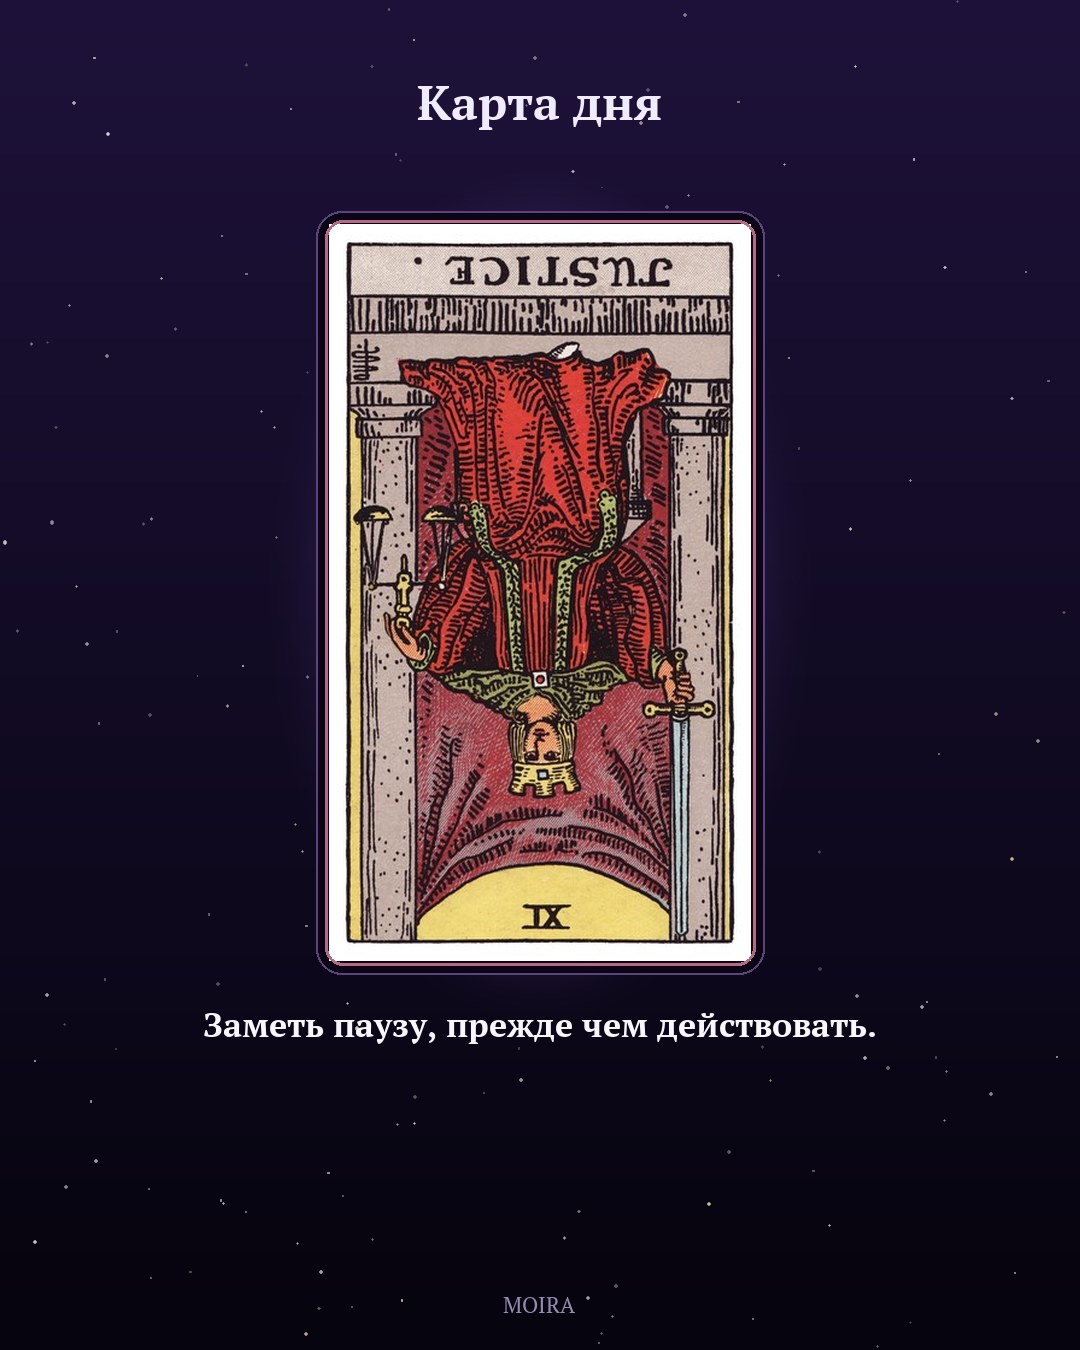
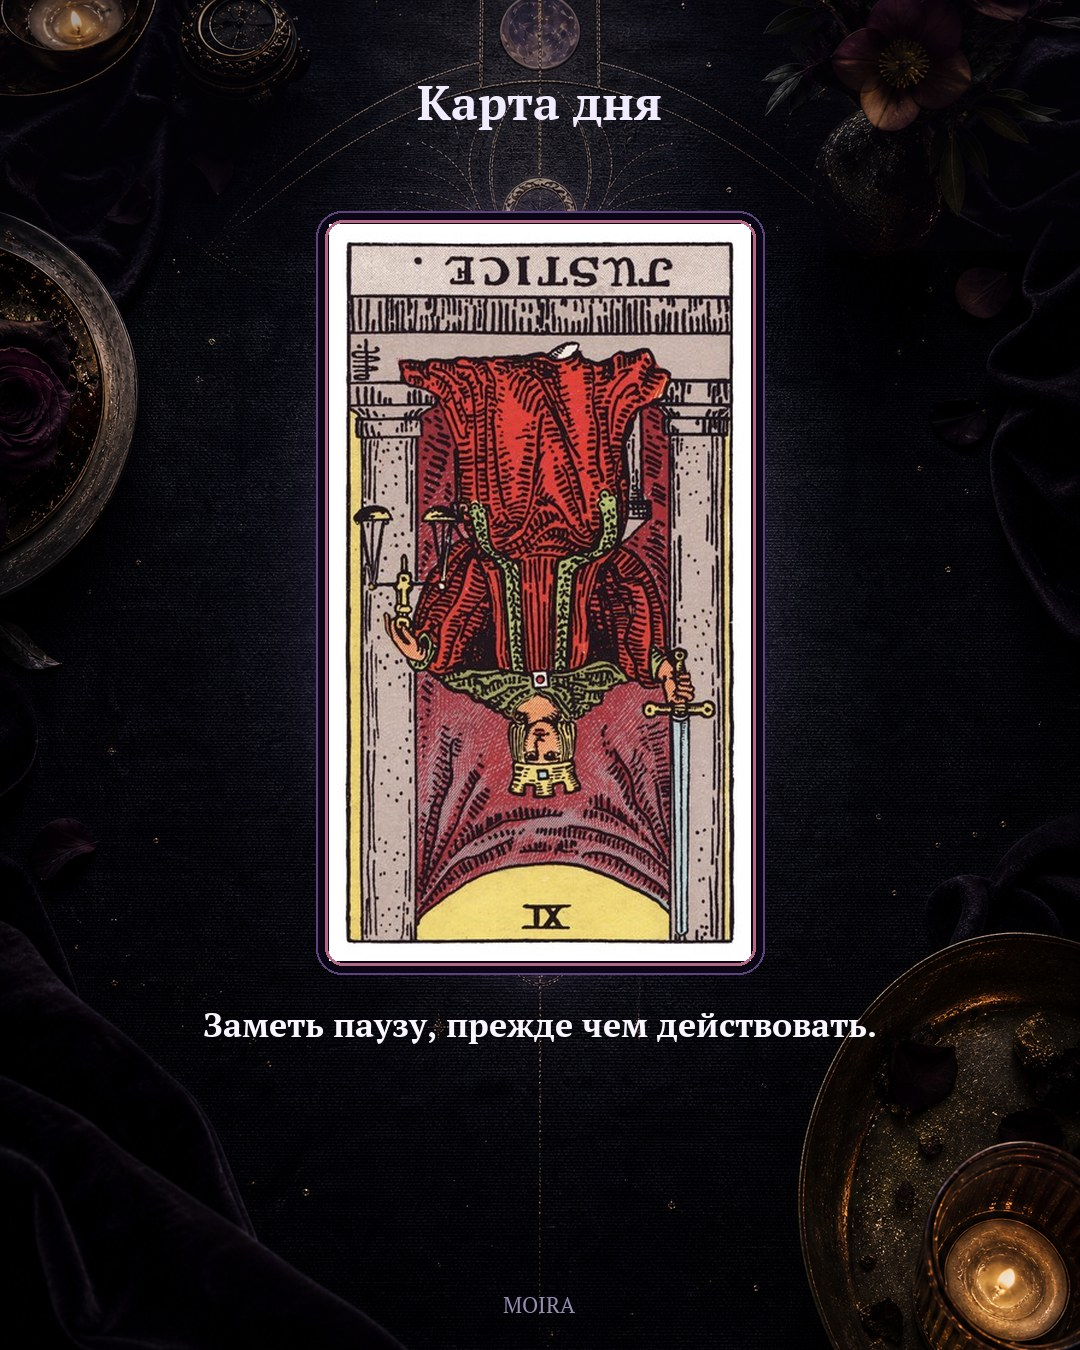
fix(release): make deploy/ops scripts runnable and reproducible
Four defects blocked a clean, reproducible release source.

1. deploy/*.sh were checked out with CRLF despite .gitattributes
   enforcing eol=lf, because core.autocrlf=true left a stale
   worktree. CRLF shell scripts fail on Linux, which breaks both
   the CI `bash -n` gate and the VPS deploy kit. Re-checked-out
   with LF; `bash -n` now passes on both scripts.

2. scripts/visual_smoke.py rendered at import time. Any import
   (import scan, test collection) rewrote four tracked JPEGs and
   broke the fail-closed `git status --porcelain` CI gate. Moved
   rendering behind a __main__ guard; the script is now idempotent.

3. Three scripts imported `bot.*` without adding the repo root to
   sys.path, so `python scripts/<name>.py` died with
   ModuleNotFoundError. Added the project's existing
   sys.path.insert convention to visual_smoke.py,
   openrouter_config_smoke.py and openrouter_json_mode_smoke.py.

4. .env.example omitted three variables the application reads:
   LLM_BACKUP_MODEL (provider fallback), ENVIRONMENT and RELEASE_TAG
   (Sentry release binding required by the deployment source
   policy, which mandates SHA-bound releases).

Also:
- Fixed a typo in the EN smoke sample ("reved" -> "reversed") that
  rendered the Shadow card upright instead of reversed.
- Regenerated docs/visual_smoke_outputs: the committed samples
  predate the nocturnal renderer asset pack (6c0402d), so the
  documented visuals no longer matched the shipped renderer.
[…]

diff --git a/scripts/visual_smoke.py b/scripts/visual_smoke.py
@@ -1,26 +1,82 @@
+"""Render representative Moira visuals into docs/visual_smoke_outputs.
+
+Run explicitly with ``python scripts/visual_smoke.py``. Rendering is intentionally
+guarded by ``__main__`` so that importing this module (for example during a
+package import scan or test collection) never rewrites the tracked sample
+artifacts and never dirties the release tree.
+"""
+
+from __future__ import annotations
+
+import sys
 from pathlib import Path
+
+sys.path.insert(0, str(Path(__file__).resolve().parents[1]))
 
 from bot.tarot.deck import build_deck
 from bot.visual.render import make_share_image, make_single_image, make_spread_image
 
-root = Path(__file__).resolve().parents[1]
-out = root / "docs" / "visual_smoke_outputs"
-out.mkdir(exist_ok=True)
-cards = build_deck()
-by_id = {card.id: card for card in cards}
-chosen = [by_id["major_0"], by_id["major_11"], by_id["major_21"]]
-info_ru = [
-    {"label": "Суть", "card": chosen[0], "reversed": False, "name": chosen[0].name_ru},
-    {"label": "Тень", "card": chosen[1], "reversed": True, "name": chosen[1].name_ru},
-    {"label": "Шаг", "card": chosen[2], "reversed": False, "name": chosen[2].name_ru},
-]
-info_en = [
-    {"label": "Essence", "card": chosen[0], "reversed": False, "name": chosen[0].name_en},
-    {"label": "Shadow", "card": chosen[1], "reved": True, "name": chosen[1].name_en},
-    {"label": "Next step", "card": chosen[2], "reversed": False, "name": chosen[2].name_en},
-]
-(out / "spread_ru.jpg").write_bytes(make_spread_image("Три нити момента", info_ru, lang="ru"))
-(out / "spread_en.jpg").write_bytes(make_spread_image("Three threads of the moment", info_en, lang="en"))
-(out / "share_ru.jpg").write_bytes(make_share_image("Три нити момента", info_ru, "Здесь есть направление, которое стоит заметить.", lang="ru"))
-(out / "single_reversed.jpg").write_bytes(make_single_image("Карта дня", "Заметь паузу, прежде чем действовать.", chosen[1], reversed_=True, lang="ru"))
-print("generated", sorted(path.name for path in out.glob("*.jpg")))
+ROOT = Path(__file__).resolve().parents[1]
+OUT_DIR = ROOT / "docs" / "visual_smoke_outputs"
+
+
+def _build_samples() -> tuple[list[dict], list[dict]]:
+    """Return the RU and EN spread definitions used for the smoke render."""
+    by_id = {card.id: card for card in build_deck()}
+    chosen = [by_id["major_0"], by_id["major_11"], by_id["major_21"]]
+
+    info_ru = [
+        {"label": "Суть", "card": chosen[0], "reversed": False, "name": chosen[0].name_ru},
+        {"label": "Тень", "card": chosen[1], "reversed": True, "name": chosen[1].name_ru},
+        {"label": "Шаг", "card": chosen[2], "reversed": False, "name": chosen[2].name_ru},
+    ]
+    info_en = [
+        {"label": "Essence", "card": chosen[0], "reversed": False, "name": chosen[0].name_en},
+        {"label": "Shadow", "card": chosen[1], "reversed": True, "name": chosen[1].name_en},
+        {"label": "Next step", "card": chosen[2], "reversed": False, "name": chosen[2].name_en},
+    ]
+    return info_ru, info_en
+
+
+def render(output_dir: Path | None = None) -> list[Path]:
+    """Render every smoke sample and return the written file paths."""
+    out = output_dir or OUT_DIR
+    out.mkdir(parents=True, exist_ok=True)
+
+    info_ru, info_en = _build_samples()
+    # The Shadow position is deliberately reversed in both locales so the
+    # reversed-card marker stays covered by the EN sample as well.
+    shadow = info_ru[1]["card"]
+
+    written = []
+    targets = {
+        "spread_ru.jpg": make_spread_image("Три нити момента", info_ru, lang="ru"),
+        "spread_en.jpg": make_spread_image("Three threads of the moment", info_en, lang="en"),
+        "share_ru.jpg": make_share_image(
+            "Три нити момента",
+            info_ru,
+            "Здесь есть направление, которое стоит заметить.",
+            lang="ru",
+        ),
+        "single_reversed.jpg": make_single_image(
+            "Карта дня",
+            "Заметь паузу, прежде чем действовать.",
+            shadow,
+            reversed_=True,
+            lang="ru",
+        ),
+    }
+    for name, payload in targets.items():
+        path = out / name
+        path.write_bytes(payload)
+        written.append(path)
+    return written
+
+
+def main() -> None:
+    written = render()
+    print("generated", sorted(path.name for path in written))
+
+
+if __name__ == "__main__":
+    main()

diff --git a/scripts/openrouter_config_smoke.py b/scripts/openrouter_config_smoke.py
@@ -3,7 +3,10 @@ from __future__ import annotations
 import asyncio
 import hashlib
 import os
+import sys
 from pathlib import Path
+
+sys.path.insert(0, str(Path(__file__).resolve().parents[1]))
 
 from openai import AsyncOpenAI
 from bot.config import load_config

diff --git a/scripts/openrouter_json_mode_smoke.py b/scripts/openrouter_json_mode_smoke.py
@@ -1,6 +1,11 @@
 from __future__ import annotations
 
 import asyncio
+import sys
+from pathlib import Path
+
+sys.path.insert(0, str(Path(__file__).resolve().parents[1]))
+
 from openai import AsyncOpenAI
 from bot.config import load_config
 
